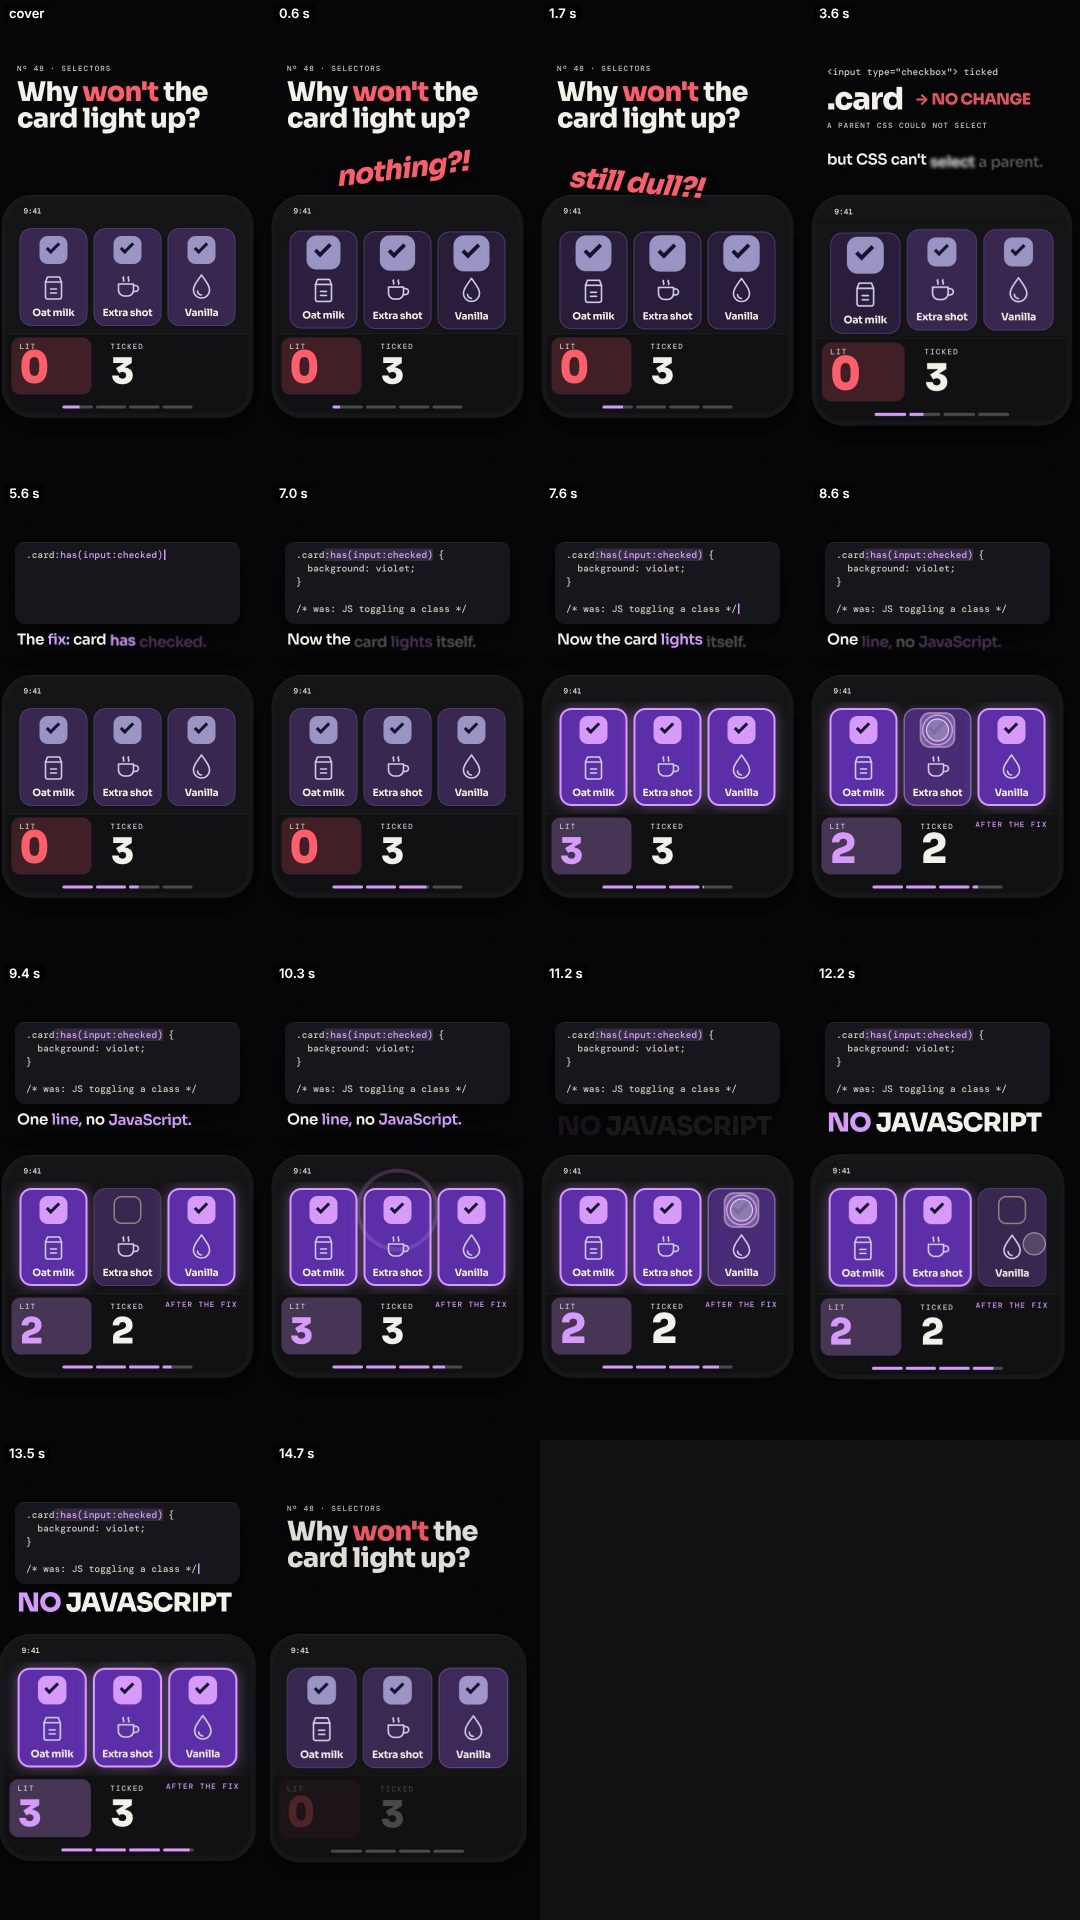
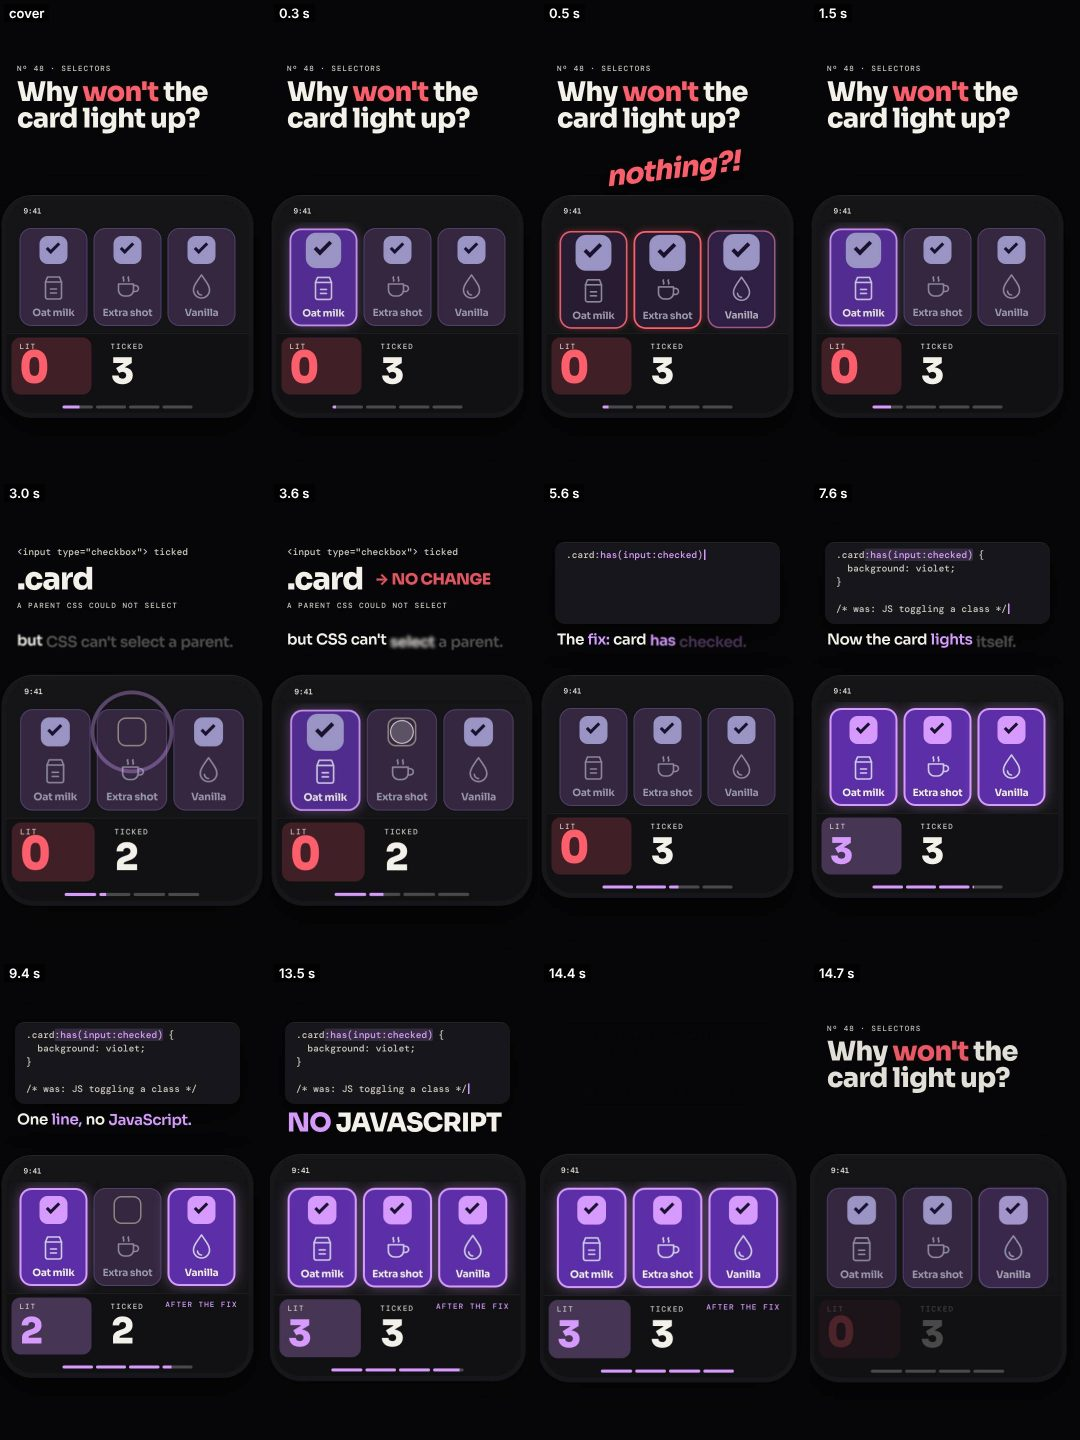
Web reel 48 has-parent: critic verdict (NOT READY) and the render 3 fix, built and checked locally (no render) (#1404)
Claude-Session: https://claude.ai/code/session_01AYvWRhF95WhTFTEqZ8BGdg

diff --git a/scripts/explainer/has-parent.html b/scripts/explainer/has-parent.html
@@ -21,7 +21,7 @@ html,body{width:540px;height:960px;overflow:hidden;background:var(--ink);color:v
 #scr{position:absolute;left:10px;top:10px;width:484px;height:426px;border-radius:52px;overflow:hidden;background:var(--pg);box-shadow:inset 0 0 0 1px rgba(255,255,255,.1)}
 #sb{position:absolute;left:0;right:0;top:0;height:44px;background:var(--pg);color:var(--paper);font:500 15px/44px var(--m);padding:0 34px;z-index:4}
 .pg{position:absolute;left:0;top:44px;width:484px;height:382px;background:var(--pg);overflow:hidden}
-.fld{position:absolute;top:12px;width:136px;height:196px;border-radius:24px;background:#38284f;box-shadow:inset 0 0 0 2px #4d3a6e}
+.fld{position:absolute;top:12px;width:136px;height:196px;border-radius:24px;background:#34273f;box-shadow:inset 0 0 0 2px #50406e}
 .fp{position:absolute;left:0;right:0;top:160px;text-align:center;font:700 20px/1 var(--f);letter-spacing:-.02em;color:var(--paper);white-space:nowrap}
 .ic{position:absolute;left:36px;top:84px;width:64px;height:64px;fill:none;stroke:#cfcbe6;stroke-width:3.2;stroke-linecap:round;stroke-linejoin:round}
 .lamp{position:absolute;left:40px;top:16px;width:56px;height:56px;border-radius:16px;border:3px solid #8a867f;background:transparent}
@@ -81,7 +81,7 @@ html,body{width:540px;height:960px;overflow:hidden;background:var(--ink);color:v
       </div>
       <div id="hud"><div id="meter"></div><div id="mtag">AFTER THE FIX</div><div id="pill"><i></i><i></i><i></i><i></i></div></div>
       <div class="tr" id="tr0"></div><div class="tr" id="tr1"></div><div class="tr" id="tr2"></div><div class="tr" id="tr3"></div><div class="tr" id="tr4"></div>
-      <div class="rp" id="rp0"></div><div class="rp" id="rp1"></div><div class="rp" id="rp2"></div><div class="rp" id="rp3"></div><div class="rp" id="rp4"></div><div class="rp" id="rp5"></div><div id="fg"></div>
+      <div class="rp" id="rp0"></div><div class="rp" id="rp1"></div><div class="rp" id="rp2"></div><div class="rp" id="rp3"></div><div class="rp" id="rp4"></div><div class="rp" id="rp5"></div><div class="rp" id="rp6"></div><div class="rp" id="rp7"></div><div id="fg"></div>
     </div>
   </div>
 </div></div>
@@ -656,13 +656,17 @@ var KM = (function(){
     var tb = [.25, 1.45, at('select', 1, S[1] + 1.4) - .05], i;
     for (i = 1; i < tb.length; i++) tb[i] = Math.max(tb[i], tb[i - 1] + .8);
     TB = KM.bugs(tb.filter(function(x){ return x < A.fix - .6; }), { g: .4 });
+    TB.forEach(function(x){ for (var j = 0; j < 3; j++) KM.cue({ t: x + .06 * j + .05, k: 'blip', g: .1, p: -2 + 2 * j }); });   // a short fizzle per tile, left to right
     window.COVER = +(Math.min(TB[1] - .06, A.leave - .02)).toFixed(2);   // the cover: the hook, three ticked boxes, three dull cards, no reaction word
     // after the fix the cards light together; then the finger unticks the middle box and its card dims at once, and ticks it again
     // (card 1 off and on, card 2 off and on, card 0 off and on: every change is the page answering with no script; the pairs fill the tail so nothing sits still)
     var e1 = Math.max(A.wipe + 1.0, at('line', 1, A.wipe + 1.2) - .1), LAST = DUR - 2.5, n = 6, gap = (LAST - e1) / 5;
     if (gap < .9) { n = 4; gap = (LAST - e1) / 3; } if (gap < .85) { n = 2; gap = Math.min(1.15, LAST - e1); } gap = Math.min(gap, 1.3);
-    TD = [1, 1, 2, 2, 0, 0].slice(0, n); TG = TD.map(function(c2, q){ return +(e1 + q * gap).toFixed(3); }); TC = [[], [], []]; TG.forEach(function(x, q){ TC[TD[q]].push(x); });
-    A.lab = Math.min(Math.max(TG[1] + .4, A.end + 1.25), LP - 1.7);   // big NO JAVASCRIPT in the band once the subtitles have left
+    var TDp = [1, 1, 2, 2, 0, 0].slice(0, n), TGp = TDp.map(function(c2, q){ return +(e1 + q * gap).toFixed(3); });
+    // before the fix the finger unticks and reticks the middle box twice: TICKED 3 -> 2 -> 3, the tile does not react, LIT stays 0 (the mirror of the proof beat)
+    var tp1 = Math.max(A.leave + .35, 2.65), TPRE = (tp1 + 1.0 + .6 < A.fix - .5) ? [+tp1.toFixed(3), +(tp1 + 1.0).toFixed(3)] : [];
+    TD = TPRE.map(function(){ return 1; }).concat(TDp); TG = TPRE.concat(TGp); TC = [[], [], []]; TG.forEach(function(x, q){ TC[TD[q]].push(x); });
+    A.lab = Math.min(Math.max(TGp[1] + .4, A.end + 1.25), LP - 1.7);   // big NO JAVASCRIPT in the band once the subtitles have left
     TG.forEach(function(x, q){ KM.tap(x, 28 + TXc[TD[q]]); KM.cue({ t: x + .08, k: 'pop', g: .2, p: 3 }); });
     CAM.creep(A.lab, LP - A.lab - .05, .025);   // the held payoff still breathes (FLOW dead runs)
     TG.forEach(function(x, q){ KM.cue(q % 2 ? { t: x + .14, k: 'blip', g: .2, p: 4 } : { t: x + .14, k: 'hit', g: .3, p: -.4 }); });
@@ -672,7 +676,7 @@ var KM = (function(){
     KM.cue({ t: LP, k: 'swish', d: .45, g: .4, p: -.6 }); KM.cue({ t: LP + .25, k: 'hit', g: .3, p: -.3 });
     // element sound (scripts/explainer/kitsfx.js): every element that enters, moves or changes has a cue by its size, or is marked with the cue that covers it
     KM.mark($('ph'), 'tree', 'the boxes follow the bug cues, the lit cards have the resolve chord, the dim and the tick-again have theirs; the loop has its swish');
-    KM.mark($('fg'), 'self', 'the tap cue'); ['tr0', 'tr1', 'tr2', 'tr3', 'tr4', 'rp0', 'rp1', 'rp2', 'rp3', 'rp4', 'rp5'].forEach(function(id){ KM.mark($(id), 'self', 'the tap cue'); });
+    KM.mark($('fg'), 'self', 'the tap cue'); ['tr0', 'tr1', 'tr2', 'tr3', 'tr4', 'rp0', 'rp1', 'rp2', 'rp3', 'rp4', 'rp5', 'rp6', 'rp7'].forEach(function(id){ KM.mark($(id), 'self', 'the tap cue'); });
     KM.sfx($('lbl'), A.leave - .2, 'exit', { size: 'small' }); KM.sfx($('band'), A.leave - .1, 'enter', { size: 'medium', g: .6 });
     KM.mark($('pill'), 'tree', 'it fills with the beats, which have their own cues'); KM.mark($('meter'), 'tree', 'each number steps on its bug, tap or fix cue'); KM.sfx($('mtag'), A.wipe + .5, 'enter', { size: 'small', g: .5 });
     KM.sfx($('wide'), A.wideIn, 'enter', { size: 'medium', g: .6 }); KM.sfx($('wl'), A.wider, 'enter', { size: 'small', g: .8, deg: 2 });
@@ -687,10 +691,11 @@ var KM = (function(){
   // hex colours mixed in steps (KM.mixCol returns an rgb() string, so it cannot be chained)
   function hx(a, b, k){ var x = parseInt(a.slice(1), 16), y = parseInt(b.slice(1), 16), o = 0, q; for (q = 16; q >= 0; q -= 8) { var v = Math.round(mix(x >> q & 255, y >> q & 255, cl(k))); o = o * 256 + v; } return '#' + ('000000' + o.toString(16)).slice(-6); }
   // one card: lit = how lit (0-1), fl = the red NOT LIT flare, raw = how ticked its box is, pop = the box's pop
-  function paint(i, lit, fl, raw, pop){
-    var ring = hx('#4d3a6e', '#d79bff', lit), w = 2 + 2 * lit, bg = hx(hx('#38284f', '#5c2fa8', lit), '#1a1226', .55 * fl * (1 - lit)), bx = hx('#9a94c4', '#d79bff', lit);
-    FLD[i].style.boxShadow = 'inset 0 0 0 ' + w.toFixed(2) + 'px ' + ring + ', 0 0 ' + (6 + 24 * lit).toFixed(1) + 'px rgba(215,155,255,' + (.38 * lit).toFixed(3) + ')';
-    FLD[i].style.background = bg; FLD[i].style.transform = 'translateY(' + (7 * fl * (1 - lit)).toFixed(2) + 'px)';
+  function paint(i, lit, fl, raw, pop, flick, red){
+    var L = Math.max(lit, .85 * flick), ring = hx(hx('#50406e', '#d79bff', L), '#ff5f6d', red), w = 2 + 2 * L + 1.5 * red, bg = hx(hx('#34273f', '#5c2fa8', L), '#1a1226', .55 * fl * (1 - L)), bx = hx('#9a94c4', '#d79bff', lit);
+    FLD[i].style.boxShadow = 'inset 0 0 0 ' + w.toFixed(2) + 'px ' + ring + ', 0 0 ' + (6 + 24 * L + 14 * red).toFixed(1) + 'px rgba(215,155,255,' + (.38 * L).toFixed(3) + '), 0 0 ' + (16 * red).toFixed(1) + 'px rgba(255,95,109,' + (.32 * red).toFixed(3) + ')';
+    FLD[i].style.background = bg; FLD[i].style.transform = 'translateY(' + (6 * fl * (1 - L)).toFixed(2) + 'px)';
+    FLD[i].querySelector('svg').style.stroke = hx('#8a869c', '#cfcbe6', L); $('p' + i).style.color = hx('#9a97ab', '#f2efe8', L);   // dull tiles: icon and name at about 60% white
     LMP[i].style.background = hx(bg, bx, raw); LMP[i].style.borderColor = hx('#8a867f', bx, raw); LMP[i].style.transform = 'scale(' + (1 + .3 * pop).toFixed(3) + ')';
     TK[i].style.opacity = P(raw, .3, .9).toFixed(3);
   }
@@ -705,10 +710,11 @@ var KM = (function(){
     // ---- the cards: boxes ticked and cards dull from frame 0, a red NOT LIT flare on every bug beat; the fix lights them; the middle one follows its box; dull again on the reload ----
     for (i = 0; i < 3; i++) {
       var fl = 0; if (t < W) for (k = 0; k < TB.length; k++) { var s = TB[k] + .06 * i; fl = Math.max(fl, E.out3(P(t, s, s + .1)) * (1 - E.inOut3(P(t, s + .1, s + .7)))); }
+      var flick = 0, red = 0; if (t < W) for (k = 0; k < TB.length; k++) { var s2 = TB[k] + .06 * i; flick = Math.max(flick, E.out3(P(t, s2, s2 + .06)) * (1 - E.inOut3(P(t, s2 + .06, s2 + .18)))); red = Math.max(red, E.out3(P(t, s2 + .12, s2 + .2)) * (1 - P(t, s2 + .2, s2 + .55))); }   // each tile flickers toward lit for 0.12 s, then drops back dull with a red outline flash
       var raw = rawAt(i, t);
       var lit = Math.min(E.out3(P(t, W, W + .3)), raw) * (1 - E.out3(P(t, LP + .05 * i, LP + .2 + .05 * i)));
       var pop = Math.max(fl, bumpAt(i, t));
-      paint(i, lit, fl, raw, pop); }
+      paint(i, lit, fl, raw, pop, flick, red); }
     // ---- the finger: it unticks the middle box, then ticks it again ----
     var taps = [], fx = 300, fy = 300, fo = 0;
     TG.forEach(function(x, q){ taps.push([x, TD[q]]); });
@@ -741,14 +747,14 @@ var KM = (function(){
     $('wl').style.opacity = cl(wp * 4).toFixed(3); $('wl').style.transform = 'scale(' + mix(.5, 1, E.back(wp, 2.2)).toFixed(4) + ')';
     // ---- the fix: the cause's place becomes the code card; the has part is typed and swept ----
     var mk = T.morph(t), cd = $('code'), BOX = { x: 30, y: 150, w: 450, h: 110, r: 20 }, CARD = { x: 30, y: 124, w: 450, h: 164, r: 20 };
-    KM.morph(cd, BOX, CARD, mk); cd.style.opacity = (P(t, A.fix - .1, A.fix + .1) * (1 - E.out3(P(t, LP, LP + .25)))).toFixed(3);
+    KM.morph(cd, BOX, CARD, mk); cd.style.opacity = (P(t, A.fix - .1, A.fix + .1) * (1 - E.out3(P(t, LP - .3, LP - .05)))).toFixed(3);
     KM.type($('cd'), CODE, t, A.fix + .35, A.typeEnd); $('cd').style.opacity = P(mk, .6, 1).toFixed(3);
     [].forEach.call($('cd').querySelectorAll('b'), function(b, k2){ KM.sweep(b, t, A.typeEnd + .05 + k2 * .12, .4, 'var(--soft)'); });
     // the fix selector glides from the code card onto the cards (a copy: the card keeps it on screen for the save)
     var g = T.glide(t), gh = $('ghost'), a = { x: 62, y: 164, w: 300, h: 32, r: 12 }, sc = CAM.toScreen(c, 270, 560), b = { x: sc[0] - 130, y: sc[1] - 16, w: 260, h: 32, r: 14 };
     KM.shared(gh, a, b, g); gh.style.opacity = (t >= A.typeEnd + .1 && g < 1 ? 1 - P(g, .8, 1) : 0).toFixed(3);
     // ---- payoff: the label right of the counter ----
-    var lk = P(t, A.lab, A.lab + .3) * (1 - P(t, LP, LP + .2));
+    var lk = P(t, A.lab, A.lab + .3) * (1 - P(t, LP - .3, LP - .1));
     $('lab').style.opacity = lk.toFixed(3); $('lab').style.transform = 'translateY(' + ((1 - E.back(P(t, A.lab, A.lab + .3), 1.4)) * 10).toFixed(2) + 'px)';
     // ---- the subtitles sit between the top zone and the phone ----
     KM.cutBelow($('vp'), $('fe'), 960, 0);

diff --git a/review/web/showreel-48-has-parent.md b/review/web/showreel-48-has-parent.md
@@ -17,7 +17,7 @@ Eye path (rule 14), one line per beat: 0-2 s hook top-left, then straight down t
 10. Facts: PASS: MDN :has() (page source mdn/content read 26 Nov 2026: represents an element if any of the relative selectors passed as an argument match at least one element; a way of selecting a parent element; Baseline widely available since December 2023); MDN browser-compat-data css.selectors.has (read 26 Nov 2026): Chrome 105, Edge 105, Firefox 121, Safari 15.4; the "was a JS class toggle" line is the common workaround, shown as a comment, not a number
 11. Post data: PASS: captions.json entry (web, postOn 2026-11-26, postAt 19:00 from design/slots.json, concept, experiment web-parent-selector, palette black, style record, aiLabel false); 7 keywords, 5 hashtags; tip demo hasparent (real CSS: label:has(input:checked) beside a list with no parent rule); caption line 1 is a yes-or-no question and the last line asks for the answer
 12. Review file: PASS: this file; items 1 to 11 read PASS
-13. After the render: PENDING: render 1 (run 45742099999, 26 Nov) failed Output QA on BULK (the ticked boxes were solid near-white, a 56 px blob at 0.5 s, largest 1221 px over 150) and DEMO (colourfulness 30, at least 32); every other check passed (PACE, LOUD, SOUND 40 of 40 cues, COLOUR, EDGES, HUE 265, FOCUS, BLACKBG, LOOK vs gold, MUTE, CALM, DEAD, VARIETY 53%). Fixed for render 2 (the fix render): ticked boxes are mid lavender (#9a94c4) instead of near-white, the dull tiles are plum (#38284f, ring #4d3a6e) and the lit ones deeper violet (#5c2fa8); run locally on the scene frames: BULK PASS (largest 3 px), DEMO PASS (colourfulness 39, saturation 0.49), HUE 265, FOCUS 36 vs 22. Render 2 next, then the critic
+13. After the render: PASS: render 2 (run 45745876272, 26 Nov): OUTPUT QA: PASS (BULK largest 2 px, DEMO colourfulness 37, HUE 265, FOCUS 37 vs 24, LOOK vs gold, MUTE the fix moves 17.4%, LOUD -14.0 LUFS, SOUND 40 of 40 cues, VARIETY 60% at the limit). Render 1 (run 45742099999) had failed BULK and DEMO, fixed for render 2.
 14. Cuts: PASS: FLOW: cuts 0 (3 declared transitions: morph of the cause picture into the code card, sharedElement glide of the fix selector onto the cards, morph of the end state back into frame 0 for the loop)
 15. Dead runs: PASS: FLOW: dead runs none
 16. Continuity: PASS: FLOW: continuity 48% (web: 35% or more)
@@ -30,3 +30,10 @@ Researched improvement (design/improvements.md web, the next unused item: "Capti
 Craft improvement (design/craft-log.md): a myth that changed shown as a counter pair (LIT 0 against TICKED 3) that flips on one line, and a tail where each tap shows the page answering with no script.
 References used: none (patterns from our own numbers and the tabwiggle / user-invalid reels: rules 19 and 20).
 Deliberate differences from the brief, for the critic: (a) the accent is violet (hue 265, new against the last three), the dull cards are slate-violet, not grey, so the demo is one base hue in tonal steps (rule 18) and Output QA FOCUS passes; (b) the hero is three tall tiles side by side, not stacked rows, so it is not 47's form (Fable's round-1 finding); the "bug" is a ticked box with a dull tile, the old fix (JavaScript) is a comment on the code card, not a second animation; (c) six taps fill the tail so no 2 s stretch sits still, and NO JAVASCRIPT lands large in the band once the subtitles have left.
+20. CRITIC: NOT READY (session_01AYvWRkUnCY7J6cGTsf7Pbh, 2026-11-26): for the first 7 seconds the three tiles already look half lit and almost nothing happens to them, so a stranger sees no bug; make them clearly dull, make them visibly try to light and fail at 0.25 s, 1.45 s and on "select", and add two ignored taps between 2.3 and 5 s. EXACT FIX: (1) before the fix (0 to 7.3 s) a grey-plum fill (#2e2a38) with icons and labels at about 60% white, boxes kept lavender (#9a94c4) so BULK still passes; (2) at each bug hit (0.25 s, 1.45 s, and "select" at about 4.0 s) each tile flickers toward the lit violet for about 0.12 s, then drops back dull with a short red outline flash and a 6 px sag, left to right 60 ms apart, each with a fizzle sound; DEMO must read 32 or more on the local frames before rendering; (3) between 2.3 and 5.0 s the finger unticks and reticks the middle box, TICKED 3 -> 2 -> 3, the tile does not react, LIT stays 0 in red; (4) at 14.3 to 14.5 s fade the code card out completely before the hook fades in; (5) bring the "style" line of the config up to date. This would be render 3, so it needs the owner's yes and a cost estimate.
+GOLD: the look numbers match or beat gold: brightness 0.109 vs 0.098, dark share 60% vs 68%, contrast 0.153 vs 0.144, one accent (hue 265). The difference is 0 to 7 s: the phone is the same picture for 7 s apart from two dips of about 5% at 0.25 s and 1.45 s, and LIT 0 / TICKED 3 never changes; over the same stretch gold's tabs shove on every tap and its counter climbs from 1 to 5.
+STOP: 6/10. Frame 0 to 1 s has the whole hook, three ticked lavender-on-plum tiles and a red LIT 0; out of context the tiles read as a working, selected interface; only the red counter and the hook's red word say something is wrong.
+REWATCH: 7/10. At 8.9 to 9.5 s the finger unticks Extra shot, the tile drains to slate and LIT drops 3 -> 2; at 11.7 and 12.7 s the same with Vanilla; the loop at 14.5 s goes back to frame 0 with no seam.
+PREMIUM: animation 7/10, cleanliness 7.5/10, premium 6.5/10 (the light-up at 7.3 to 8.0 s is good; the bug dips at 0.25 and 1.45 s are too small to read; the :has(input:checked) chip crosses the icons at 7.0 s; the hook ghosts under the code card at 14.4 s). Four questions: as rich as gold NO (0 to 7 s); not a copy of gold or of 47 YES; would stop a scroll NO (STOP 6); would be watched twice YES.
+ENHANCE: make the bug something the viewer sees fail: on the first beat have each tile flicker half lit and die, like a dead bulb, so "won't light up" is a picture by 0.3 s, not just a word.
+Fix for render 3, prepared and checked locally on 26 Nov (builder, not yet rendered, waiting for the owner's yes): the five points above, with the dull fill #34273f (a touch more plum than the critic's #2e2a38, because #2e2a38 failed DEMO saturation at 0.35), flicker and red outline flash per tile at each bug beat, two ignored taps at 2.65 s and 3.65 s (TICKED 3 -> 2 -> 3, LIT 0), code card and label faded out by 14.45 s, style line updated. Local scene frames: BULK PASS (largest 3 px), DEMO PASS (saturation 0.39, colourfulness 43), HUE 265, FOCUS 30 vs 21, CALM 3.1% mean, SPREAD 0%; stills lines all clean (FLOW dead runs none, ELEMENT SOUND 54 of 54).

diff --git a/design/handoff-log.md b/design/handoff-log.md
@@ -845,3 +845,5 @@ Format (at most 6 lines):
 - Done: fresh news bank (5 options, 19-23 Nov, Samsung and Google pages), Fable pick (tag first), scene techkit/scenes/tag-sounding.html and topic techreel/topics/tag-sounding.json on the 3D colour-world kit, captions entry (postOn 26 Nov, 15:00), direction card APPROVED by Fable (two rounds), review file items 1-17, preflight lines (SAFE ZONE ok, FLOW ok); the 3D scene needed window.CHUNKS, window.seek and TRANSITIONS to run the preflight (now in the scene).
 - Left: render 1 on GitHub (Tech reel, slug tag-sounding), Output QA, critic (opus, tag critic), then the post day.
 - For the other account: a branch cut from an old checkout conflicts in captions.json and pick-log.md; merge main in before the first push. The preflight of a 3D scene takes about 12 min (FLOW samples 223 full frames).
+- Update (same session, 26 Nov): render 2 of web 48 passed Output QA; the independent critic (Opus) said NOT READY: the first 7 s do not show a bug (dull tiles read as selected, dips of 5%). The fix (flicker and fail on each bug beat, two ignored taps, plum-grey tiles, code card faded before the loop) is built and checked on the scene frames; render 3 needs the owner's yes (about 16 GitHub minutes, under $1) and is NOT started; the posted reel is still render 2 until then. For the other account: a dull state must be visibly broken in the first second; a tile that looks half selected does not read as a bug.
+
